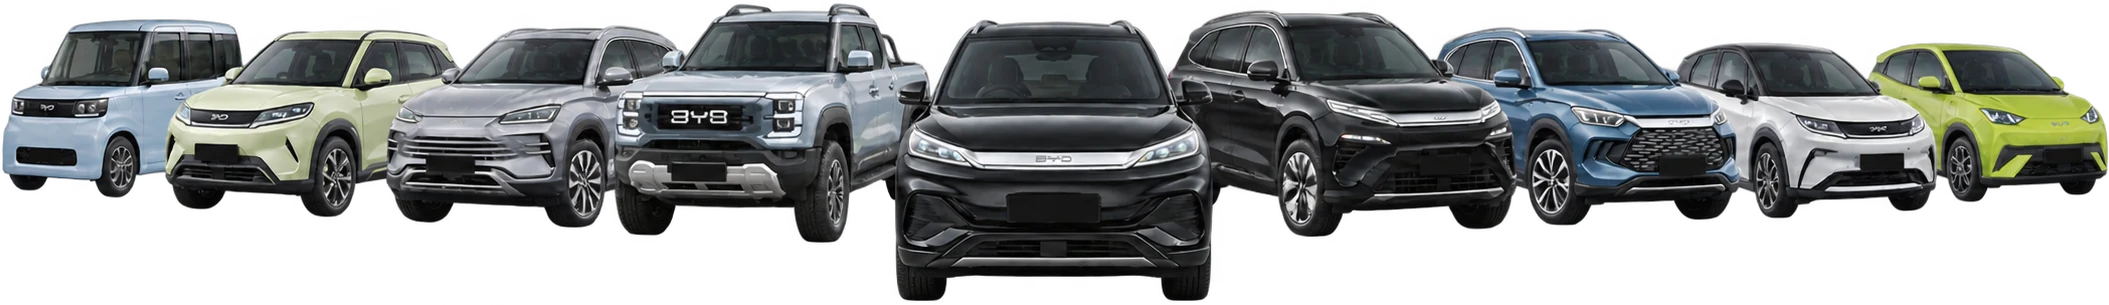
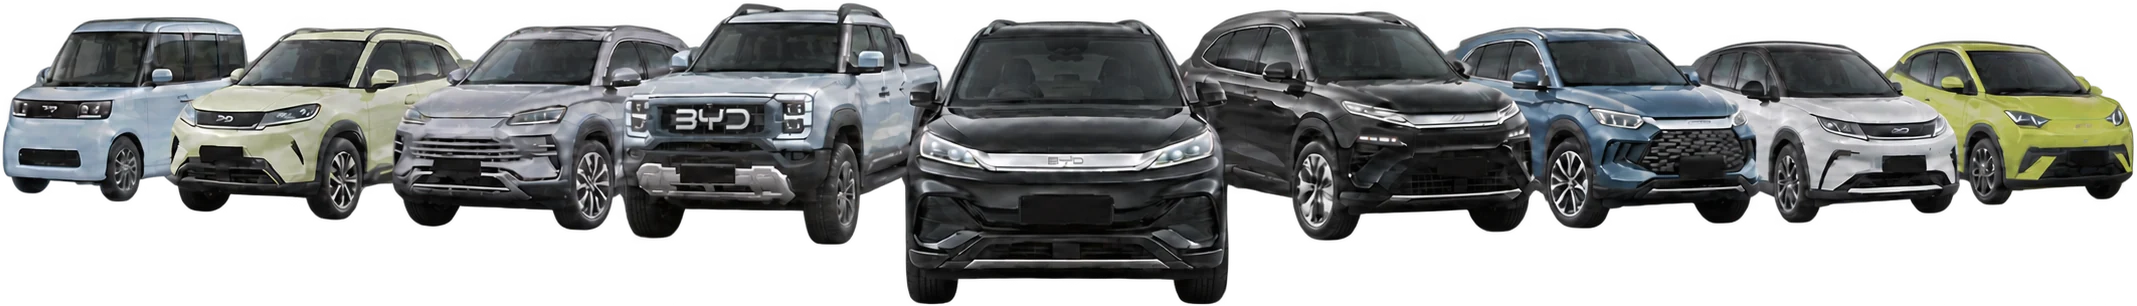
transition fix applied & lineup-img changed

diff --git a/components/ui/ScreenTransition.tsx b/components/ui/ScreenTransition.tsx
@@ -13,6 +13,11 @@ interface ScreenTransitionProps {
  * Crossfades a route-level screen in and out (React <ViewTransition>).
  * Model changes inside 04 Experience use the "model-step" type and skip the
  * crossfade, because they dip to black instead.
+ *
+ * The screen sits in a full-size box that clips its own content: the crossfade
+ * snapshot is drawn above the page and ignores the stage's clipping, so without
+ * this, anything parked off-screen (e.g. the closed 04b Details Panel) would flash
+ * in the side bars during the fade.
  */
 export function ScreenTransition({ duration, children }: ScreenTransitionProps) {
   const className = `screen-${duration}`;
@@ -22,7 +27,7 @@ export function ScreenTransition({ duration, children }: ScreenTransitionProps) 
       exit={{ "model-step": "none", default: className }}
       default="none"
     >
-      {children}
+      <div className="absolute inset-0 overflow-hidden">{children}</div>
     </ViewTransition>
   );
 }

diff --git a/components/home/LineupStrip.tsx b/components/home/LineupStrip.tsx
@@ -1,10 +1,10 @@
 import { MediaImage } from "@/components/ui/MediaImage";
 
 /**
- * Client-supplied line-up photo (public/media/home/BYD-Lineup.png, 2172 × 724), trimmed to the
- * cars and saved as home/lineup.webp (2109 × 305, transparent).
+ * Client-supplied line-up photo (public/media/home/lineup-new.png, 2172 × 724), trimmed to the
+ * cars and saved as home/lineup.webp (2137 × 306, transparent).
  */
-const LINEUP = { path: "home/lineup.webp", width: 2109, height: 305 } as const;
+const LINEUP = { path: "home/lineup.webp", width: 2137, height: 306 } as const;
 /** Drawn width in design px; the height follows the image ratio. */
 const DRAW_W = 1600;
 

diff --git a/docs/assets.md b/docs/assets.md
@@ -41,7 +41,7 @@ _Generated by `node scripts/build-assets-doc.mjs` – do not edit by hand; re-ru
 | File (`public/media/…`) | Used for | Status |
 | --- | --- | --- |
 | `home/blade-battery.webp` | 02 Home – Blade Battery poster / fallback | ✅ |
-| `home/lineup.webp` | 02 Home – "Find your BYD" line-up (from BYD-Lineup.png) | ✅ |
+| `home/lineup.webp` | 02 Home – "Find your BYD" line-up (from lineup-new.png) | ✅ |
 | `models/atto-1/atto-1-cutout.webp` | Atto 1 – cut-out (Models, Experience fallback) | ✅ |
 | `models/atto-1/atto-1-thumb.webp` | Atto 1 – rail thumbnail | ✅ |
 | `models/atto-1/atto-1-gallery-1.webp` | Atto 1 – gallery 1 | ✅ |

diff --git a/docs/design-inventory.md b/docs/design-inventory.md
@@ -647,7 +647,7 @@ Atto 2), ideally in the colours shown on the kiosk; Home images
    eyebrow, "The battery is the structure", a lead line (`REVIEW`), and the three battery
    points as a numbered list.
 2. *In every BYD* – unchanged.
-3. *Find your BYD* – the client's line-up photo (`home/lineup.webp`, trimmed from `BYD-Lineup.png`) on a gold horizon.
+3. *Find your BYD* – the client's line-up photo (`home/lineup.webp`, trimmed from `lineup-new.png`) on a gold horizon.
 - The interactive chassis section ("Under the skin / Power, laid out") was removed.
 
 **Offline (Stage 3)** – `public/sw.js`, `lib/offline/*`
